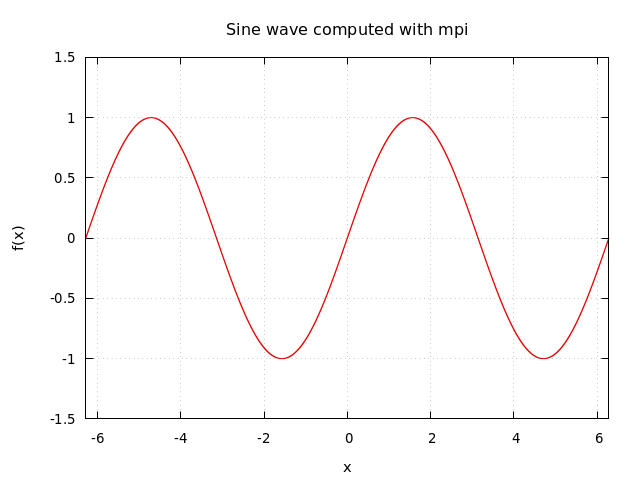
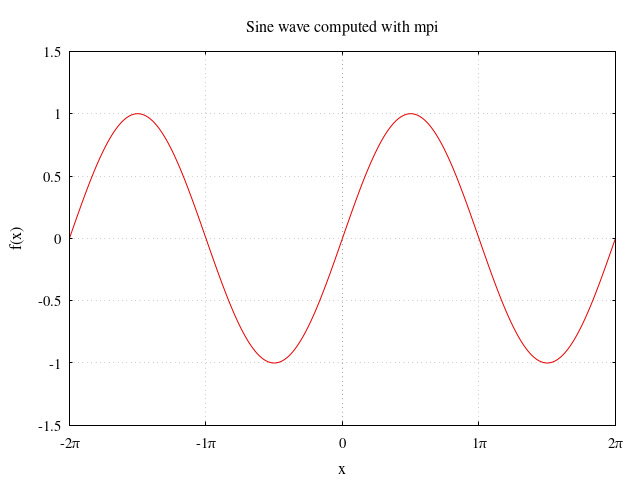
change font palatino to times

diff --git a/clang/parallelwave.c b/clang/parallelwave.c
@@ -8,7 +8,6 @@
 #include <stdlib.h>
 #include <math.h>
 #include <mpi.h>
-#define PI M_PI
 
 int main(int argc, char **argv) {
 
@@ -21,7 +20,7 @@ int main(int argc, char **argv) {
 	unsigned N = 10000000;
 	double *xval = (double *) malloc(N * sizeof(double));
 
-	xval[0] = -2*PI; xval[N-1] = 2*PI;
+	xval[0] = -2*M_PI; xval[N-1] = 2*M_PI;
 	for (size_t i = 0; i < N-1; i++)
 		xval[i+1] = xval[i] + (xval[N-1] - xval[0])/(N-1);
 
@@ -51,20 +50,20 @@ int main(int argc, char **argv) {
 
 		FILE *gnuplot = popen("gnuplot -persist", "w");
 
-		fprintf(gnuplot, "set terminal pngcairo font 'Palatino,12'\n");
+		fprintf(gnuplot, "set terminal pngcairo font 'Times,12'\n");
 		fprintf(gnuplot, "set output 'parallelwave.png'\n");
 		fprintf(gnuplot, "set style line 1 linecolor rgb '#e50000'\n");
 		fprintf(gnuplot, "set linetype 1 linewidth 1\n");
 		fprintf(gnuplot, "set title 'Sine wave computed with mpi'\n");
 		fprintf(gnuplot, "set yrange [-1.5:1.5]; set grid; set key off\n");
 		fprintf(gnuplot, "set autoscale xfixmin; set autoscale xfixmax\n");
-		fprintf(gnuplot, "set xlabel '{/OpenSymbol x}' font ',11'\n");
-		fprintf(gnuplot, "set ylabel '{/OpenSymbol f(x)}' font ',11'\n");
-		fprintf(gnuplot, "set tics scale 0.5 font ',10'\n");
-		fprintf(gnuplot, "set xtics pi format '%.0Ppi'\n");
+		fprintf(gnuplot, "set xlabel 'x'; set ylabel 'f(x)' font ',12'\n");
+		fprintf(gnuplot, "set xtics pi format '%.0P\317\200'\n");
+		fprintf(gnuplot, "set tics scale 0.5 font ',11'; set xtics add ('0' 0)\n");
 		fprintf(gnuplot, "plot '-' with lines ls 1\n");
 		for (int i = 0; i < N; i++)
 			fprintf(gnuplot, "%e %e\n", xval[i], rwave[i]);
+		fprintf(gnuplot, "e\n");
 
 		pclose(gnuplot);
 	}
